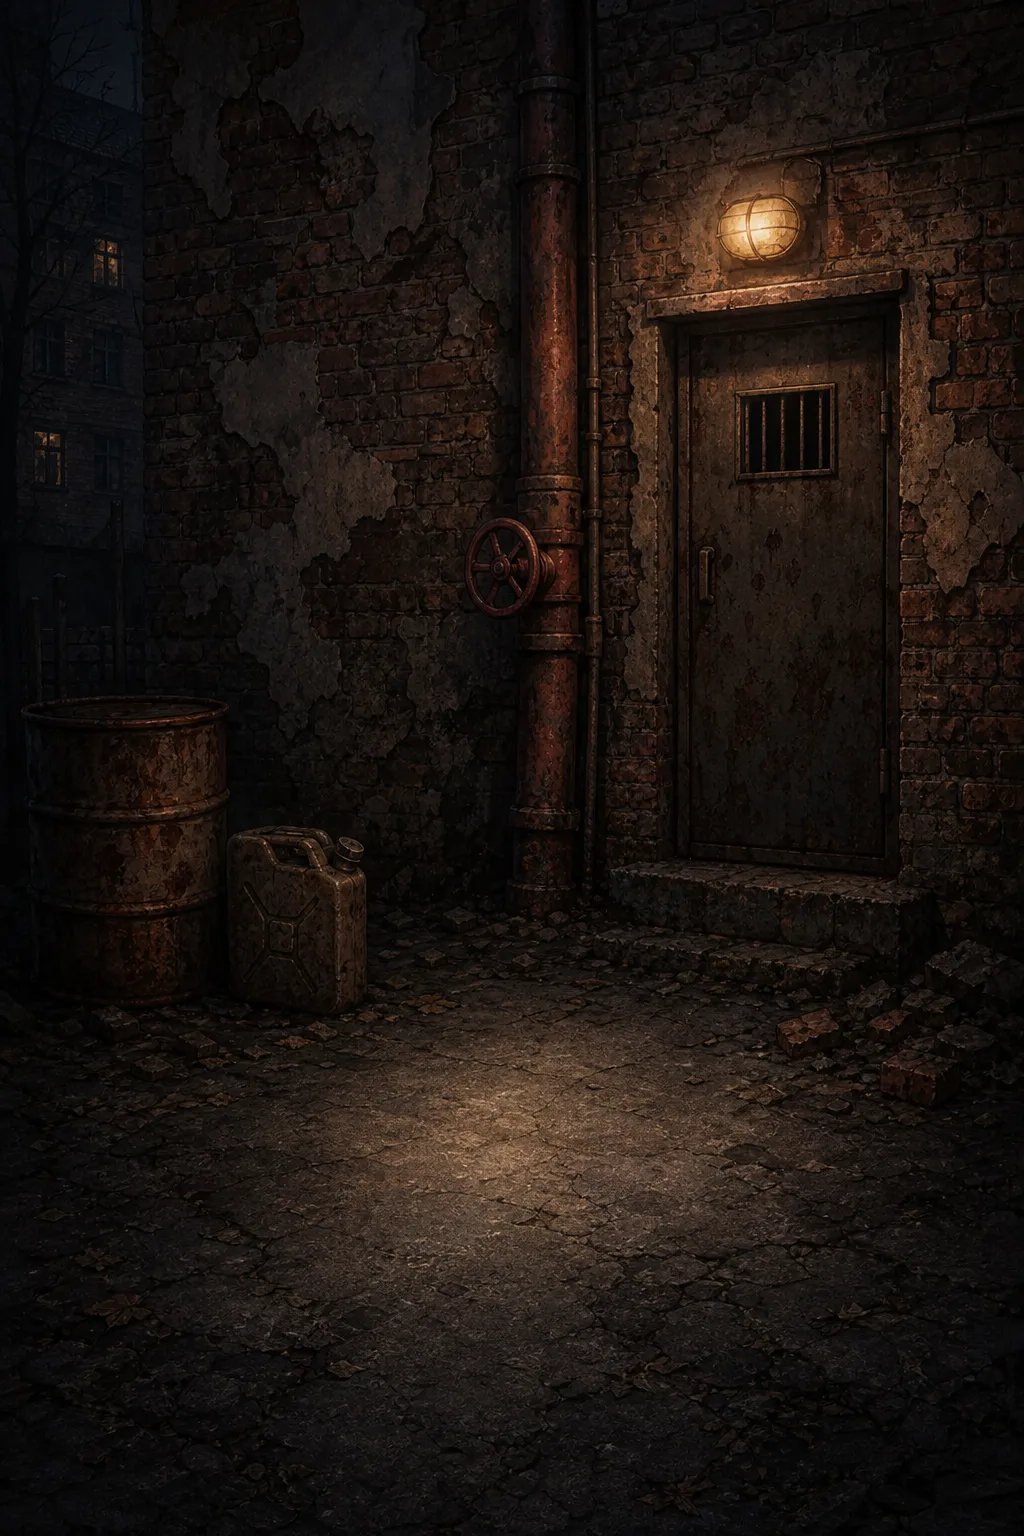
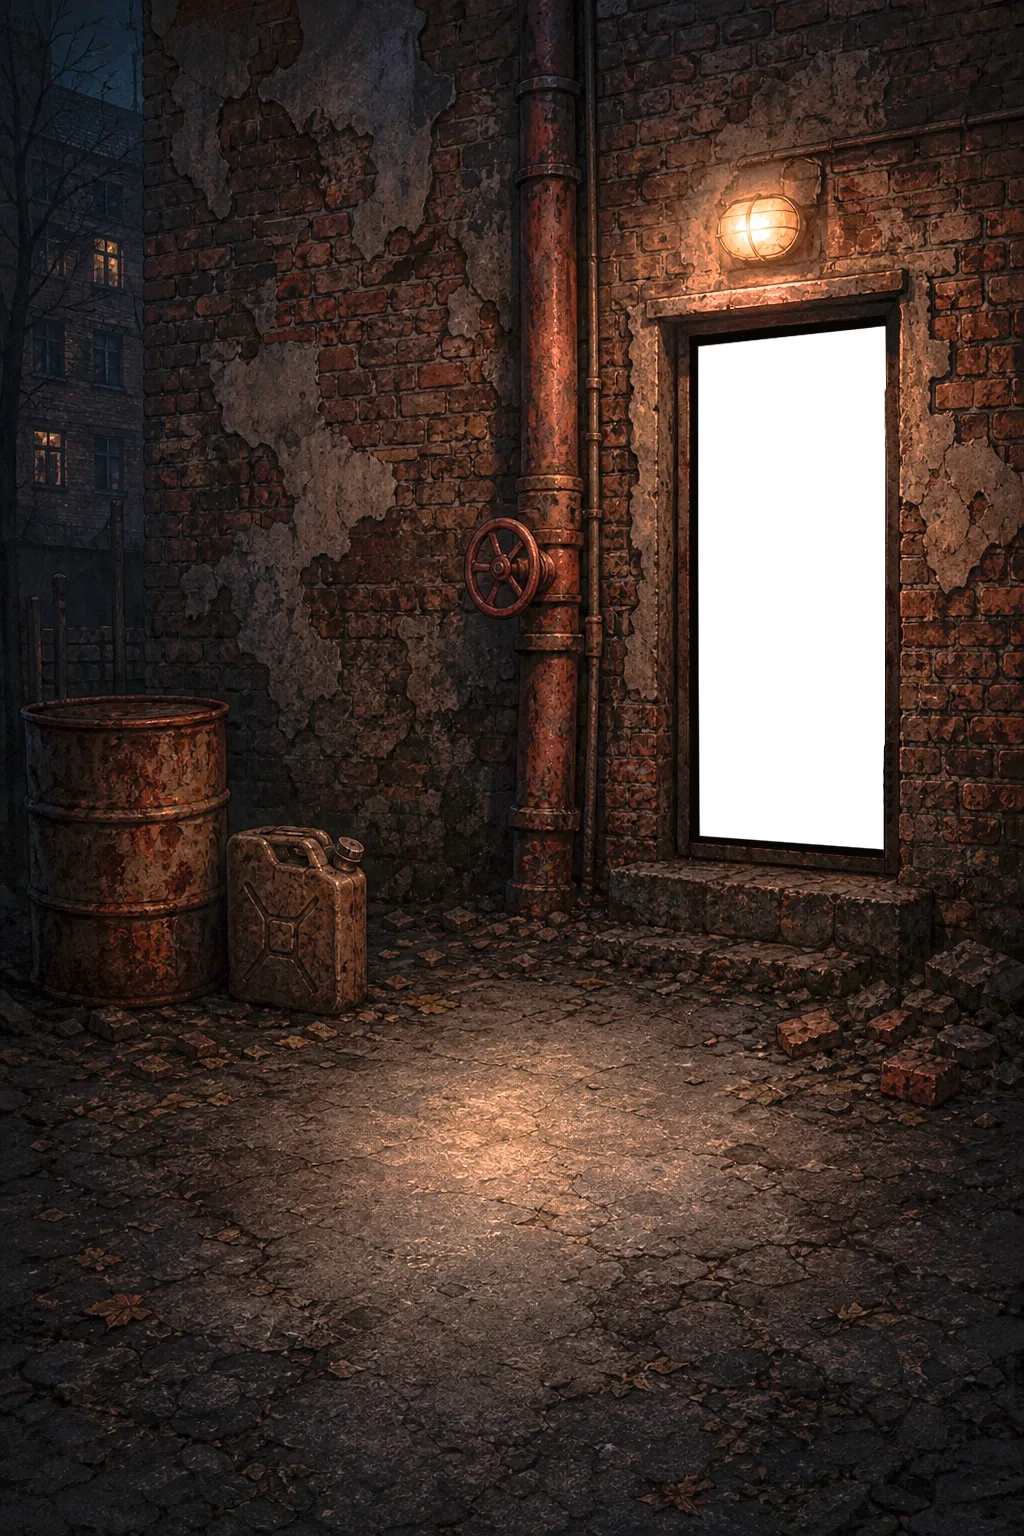
Сумки за флаги: двор художника — дверь гуляет от ветра и скрипит, темнота за дверью, фонарь мерцает; вместо музыки гул ветра, скрип и капли (синтез)
Claude-Session: https://claude.ai/code/session_01XtpZhZabEYUcJEQKQgYpHe

diff --git a/src/client/sound.ts b/src/client/sound.ts
@@ -104,7 +104,7 @@ let musicVol = readVol(VOL_KEY + "_music");
 let sfxVol = readVol(VOL_KEY + "_sfx");
 const MASTER = 0.55;
 /** the music bus level of a track at full volume */
-const trackLevel = (t: MusicTrack) => (t === "battle" ? 0.45 : 0.5) * musicVol;
+const trackLevel = (t: MusicTrack) => (t === "battle" ? 0.45 : t === "alley" ? 0.8 : 0.5) * musicVol;
 export const getMusicVolume = () => musicVol;
 export const getSfxVolume = () => sfxVol;
 export function setMusicVolume(v: number) {
@@ -796,13 +796,135 @@ function battleStep(a: AudioContext, s: number, at: number) {
   if (s === 0) noise(a, at, 1.2, { freq: 5000, type: "highpass", vol: 0.12, out });
 }
 
-export type MusicTrack = "calm" | "battle" | "yard";
+export type MusicTrack = "calm" | "battle" | "yard" | "alley";
 const TRACKS: Record<MusicTrack, { step: number; bars: number; play: (a: AudioContext, s: number, at: number) => void }> = {
   calm: { step: STEP, bars: 8, play: calmStep },
   battle: { step: B_STEP, bars: 8, play: battleStep },
   // nature has no synthesized stand-in: quiet until its file is in
   yard: { step: STEP, bars: 8, play: () => undefined },
+  // the back alley of «Сумки за флаги»: no music — the wind, water dripping somewhere (the door creaks: alleyCreak)
+  alley: { step: STEP, bars: 8, play: (a, _s, at) => alleyStep(a, at) },
 };
+
+/*
+ * The back alley (synthesized, on the music bus — the music switch and volume rule it): the wind is a looped noise
+ * through a band-pass that wanders slowly, with gusts; drops fall now and then, each a short falling «plip» with a
+ * little echo; the door's creak comes from the door's swing (alleyCreak, raids.tsx).
+ */
+let wind: { src: AudioBufferSourceNode; g: GainNode } | null = null;
+let echo: AudioNode | null = null;
+function alleyEcho(a: AudioContext): AudioNode {
+  if (echo) return echo;
+  const d = a.createDelay(1);
+  d.delayTime.value = 0.23;
+  const fb = a.createGain();
+  fb.gain.value = 0.32;
+  const lp = a.createBiquadFilter();
+  lp.type = "lowpass";
+  lp.frequency.value = 2500;
+  d.connect(lp).connect(fb).connect(d);
+  const inp = a.createGain();
+  inp.connect(musicBus!);
+  inp.connect(d);
+  lp.connect(musicBus!);
+  echo = inp;
+  return inp;
+}
+function alleyStep(a: AudioContext, at: number) {
+  if (!wind && musicBus) {
+    const len = a.sampleRate * 4;
+    const buf = a.createBuffer(1, len, a.sampleRate);
+    const d = buf.getChannelData(0);
+    // brown-ish noise: the low roar of the wind (the ends meet, so the loop does not click)
+    let last = 0;
+    for (let i = 0; i < len; i++) { last = (last + 0.02 * (Math.random() * 2 - 1)) / 1.02; d[i] = last * 3.5; }
+    for (let i = 0; i < 2000; i++) { const k = i / 2000; d[len - 1 - i] = d[len - 1 - i] * k + d[i] * (1 - k); }
+    const src = a.createBufferSource();
+    src.buffer = buf;
+    src.loop = true;
+    const bp = a.createBiquadFilter();
+    bp.type = "bandpass";
+    bp.frequency.value = 420;
+    bp.Q.value = 0.7;
+    // the howl wanders: the band slides up and down
+    const lfo = a.createOscillator();
+    lfo.frequency.value = 0.09;
+    const lfoG = a.createGain();
+    lfoG.gain.value = 260;
+    lfo.connect(lfoG).connect(bp.frequency);
+    // gusts: the loudness swells and falls
+    const g = a.createGain();
+    g.gain.value = 0;
+    const gust = a.createOscillator();
+    gust.frequency.value = 0.13;
+    const gustG = a.createGain();
+    gustG.gain.value = 0.35;
+    gust.connect(gustG).connect(g.gain);
+    g.gain.setValueAtTime(0, at);
+    g.gain.linearRampToValueAtTime(0.75, at + 3);
+    src.connect(bp).connect(g).connect(musicBus);
+    src.start(at);
+    lfo.start(at);
+    gust.start(at);
+    src.onended = () => { lfo.stop(); gust.stop(); };
+    wind = { src, g };
+    musicLp?.frequency.setValueAtTime(9000, at);
+  }
+  // a drop: rarely, sometimes two close together
+  if (Math.random() < 0.035) {
+    const out = alleyEcho(a);
+    const f = 900 + Math.random() * 900;
+    tone(a, f, at, 0.07, { type: "sine", vol: 0.09 + Math.random() * 0.06, slide: 0.45, out });
+    tone(a, f * 1.9, at + 0.004, 0.03, { type: "sine", vol: 0.03, slide: 0.6, out });
+    if (Math.random() < 0.3) tone(a, f * 0.85, at + 0.18 + Math.random() * 0.2, 0.06, { type: "sine", vol: 0.06, slide: 0.45, out });
+  }
+}
+function stopWind(at = 0) {
+  if (!wind) return;
+  const w = wind;
+  wind = null;
+  if (ctx) {
+    w.g.gain.cancelScheduledValues(ctx.currentTime);
+    w.g.gain.setTargetAtTime(0, ctx.currentTime, 0.15);
+  }
+  try { w.src.stop(Math.max(at, (ctx?.currentTime ?? 0) + 0.6)); } catch { /* stopped */ }
+  if (ctx) musicLp?.frequency.setValueAtTime(2600, ctx.currentTime + 0.6);
+}
+/**
+ * The door's creak: a rusty hinge — a rough sawtooth whose pitch slides with the swing, shaken by a fast tremble,
+ * through two narrow resonances; `power` 0…1 — how far it swings. Only in the alley, with the music on.
+ */
+export function alleyCreak(power = 0.6, dur = 0.9) {
+  const a = ctx;
+  if (!a || !musicBus || track !== "alley" || !seqTimer || a.state !== "running") return;
+  const at = a.currentTime + 0.02;
+  const o = a.createOscillator();
+  o.type = "sawtooth";
+  const f0 = 170 + Math.random() * 60;
+  o.frequency.setValueAtTime(f0, at);
+  o.frequency.linearRampToValueAtTime(f0 * (1.35 + power * 0.5), at + dur * 0.55);
+  o.frequency.linearRampToValueAtTime(f0 * 1.1, at + dur);
+  // the hinge sticks and slips: a fast tremble of the loudness
+  const trem = a.createOscillator();
+  trem.frequency.setValueAtTime(18 + Math.random() * 10, at);
+  trem.frequency.linearRampToValueAtTime(34, at + dur);
+  const tremG = a.createGain();
+  tremG.gain.value = 0.5;
+  const g = a.createGain();
+  g.gain.setValueAtTime(0.0001, at);
+  g.gain.linearRampToValueAtTime(0.05 + power * 0.06, at + 0.08);
+  g.gain.setValueAtTime(0.05 + power * 0.06, at + dur * 0.7);
+  g.gain.exponentialRampToValueAtTime(0.0001, at + dur);
+  trem.connect(tremG).connect(g.gain);
+  const r1 = a.createBiquadFilter(); r1.type = "bandpass"; r1.frequency.value = 1100; r1.Q.value = 9;
+  const r2 = a.createBiquadFilter(); r2.type = "bandpass"; r2.frequency.value = 2300; r2.Q.value = 12;
+  const mix = a.createGain(); mix.gain.value = 1;
+  o.connect(r1).connect(mix);
+  o.connect(r2).connect(mix);
+  mix.connect(g).connect(alleyEcho(a));
+  o.start(at); trem.start(at);
+  o.stop(at + dur + 0.05); trem.stop(at + dur + 0.05);
+}
 let track: MusicTrack = "calm";
 
 let seqTimer: ReturnType<typeof setInterval> | null = null;
@@ -833,7 +955,8 @@ let fileTrack: MusicTrack | null = null;
 /** the music file of this track, looped; the low-pass of the music bus is opened for it. false: not loaded (yet) */
 function startFile(a: AudioContext, t: MusicTrack): boolean {
   if (fileSrc && fileTrack === t) return true;
-  const f = MUSIC_FILES[t];
+  const f = (MUSIC_FILES as Partial<Record<MusicTrack, { id: SampleId; start: number; end: number; gain: number }>>)[t];
+  if (!f) return false;
   const b = buffers[f.id];
   if (!b || !musicBus) return false;
   stopFile();
@@ -910,6 +1033,7 @@ export function setMusicTrack(t: MusicTrack) {
   switchTimer = setTimeout(() => {
     switchTimer = null;
     stopFile();
+    if (t !== "alley") stopWind();
     track = t;
     step = 0;
     if (!musicBus || !ctx) return;
@@ -923,6 +1047,7 @@ export function setMusicTrack(t: MusicTrack) {
 export function stopMusic() {
   if (seqTimer) clearInterval(seqTimer);
   seqTimer = null;
+  stopWind();
   if (ctx) stopFile(ctx.currentTime + 0.45);
   if (ctx && musicBus) {
     musicBus.gain.cancelScheduledValues(ctx.currentTime);

diff --git a/src/client/screens/raids.tsx b/src/client/screens/raids.tsx
@@ -16,7 +16,7 @@ import { ItemArt } from "../art/items.tsx";
 import { BossRig } from "../art/boss-rig.tsx";
 import { Emblem } from "../art/emblems.tsx";
 import { useFx } from "../fx/attack.tsx";
-import { setMusicTrack, sfx, weaponSfx } from "../sound.ts";
+import { alleyCreak, setMusicTrack, sfx, weaponSfx } from "../sound.ts";
 import { MultPicker, TalentProgress, WeaponTray, type Mult } from "./boss.tsx";
 import { WeaponShopWindow } from "./shop.tsx";
 import { TalentWindow } from "./talents.tsx";
@@ -166,6 +166,69 @@ function YardRewards({ y }: { y: (typeof RAID_YARDS)[number] }) {
  * turned left and right with the arrows or a swipe; under it only the yard's name. Each bag holds a set of tattoos
  * and opens for its yard's flags (the sets are being drawn: no button yet).
  */
+/*
+ * The back alley (the artist's picture, 1024×1536, drawn like `cover`): darkness behind the doorway, the wall with its
+ * hole for the door, the door on its hinges (right edge) — the wind pushes it open now and then, it swings back and
+ * rattles, and creaks as it goes (sound.ts alleyCreak); the lamp over it flickers. The sound of the page is the alley
+ * itself (setMusicTrack("alley")): the wind, the drops — no music.
+ */
+const DOOR = { x: 689, y: 315, w: 204, h: 544 };
+function AlleyScene() {
+  const door = useRef<HTMLImageElement | null>(null);
+  useEffect(() => {
+    setMusicTrack("alley");
+    return () => setMusicTrack("calm");
+  }, []);
+  useEffect(() => {
+    const reduce = typeof matchMedia !== "undefined" && matchMedia("(prefers-reduced-motion: reduce)").matches;
+    let ang = 0, vel = 0, target = 1.5, raf = 0, last = performance.now();
+    let next = last + 1500 + Math.random() * 2500, back = 0;
+    const tick = (now: number) => {
+      const dt = Math.min(0.05, (now - last) / 1000);
+      last = now;
+      if (now > next) {
+        // a gust: the door swings open a little or a lot, then the wind lets go
+        const open = 5 + Math.random() * (Math.random() < 0.3 ? 26 : 12);
+        target = open;
+        back = now + 600 + Math.random() * 900;
+        next = now + 2600 + Math.random() * 4500;
+        alleyCreak(Math.min(1, open / 30), 0.6 + open / 40);
+      }
+      if (back && now > back) {
+        // it falls back towards the frame: a shorter creak
+        back = 0;
+        target = 0.5 + Math.random() * 2;
+        alleyCreak(Math.min(0.7, ang / 40), 0.5 + ang / 60);
+      }
+      // a heavy door on rusty hinges: a soft spring, much friction; a little rattle near the frame
+      const jitter = ang < 4 ? Math.sin(now / 37) * 0.25 : 0;
+      vel += ((target - ang) * 9 - vel * 3.2) * dt;
+      ang = Math.max(0, ang + vel * dt);
+      if (door.current) door.current.style.transform = `rotateY(${(ang + jitter).toFixed(2)}deg)`;
+      raf = requestAnimationFrame(tick);
+    };
+    if (!reduce) raf = requestAnimationFrame(tick);
+    return () => cancelAnimationFrame(raf);
+  }, []);
+  const pc = (v: number, of: number) => `${(v / of) * 100}%`;
+  return (
+    <div className="rb-scene" aria-hidden="true">
+      <div className="rb-art">
+        {/* behind the doorway: the dark of the basement */}
+        <i className="rb-dark" style={{ left: pc(696, 1024), top: pc(324, 1536), width: pc(192, 1024), height: pc(526, 1536) }} />
+        {/* eslint-disable-next-line @next/next/no-img-element */}
+        <img className="rb-bg" src={`${A}/bags-bg.webp`} alt="" draggable={false} />
+        {/* eslint-disable-next-line @next/next/no-img-element */}
+        <img ref={door} className="rb-door" src={`${A}/bags-door.webp`} alt="" draggable={false}
+          style={{ left: pc(DOOR.x, 1024), top: pc(DOOR.y, 1536), width: pc(DOOR.w, 1024), height: pc(DOOR.h, 1536) }} />
+        {/* the lamp over the door: its glow flickers */}
+        <i className="rb-lamp" style={{ left: pc(765, 1024), top: pc(215, 1536) }} />
+        <i className="rb-lamp-wash" />
+      </div>
+    </div>
+  );
+}
+
 export function RaidBagsScreen() {
   const [v, setV] = useState<RaidsView | null>(null);
   useEffect(() => { api.get<RaidsView>("/api/raids").then(setV).catch(() => {}); }, []);
@@ -183,8 +246,7 @@ export function RaidBagsScreen() {
     <div className="fit-page rb-page"
       onTouchStart={(e) => { touch.current = e.touches[0].clientX; }}
       onTouchEnd={(e) => { const x0 = touch.current; touch.current = null; if (x0 == null) return; const dx = e.changedTouches[0].clientX - x0; if (Math.abs(dx) > 40) go(dx < 0 ? 1 : -1); }}>
-      {/* eslint-disable-next-line @next/next/no-img-element */}
-      <img className="rb-bg" src={`${A}/bags-bg.webp`} alt="" draggable={false} />
+      <AlleyScene />
       <div className="title-row rd-title">
         <Link href="/clans/raids" className="back-btn" aria-label="К дворам">‹</Link>
         <b>Сумки за флаги</b>

diff --git a/src/app/screens.css b/src/app/screens.css
@@ -6428,7 +6428,21 @@ html.eco .hs-page::after, html.eco .hs-page::before { animation: none; }
 @media (prefers-reduced-motion: reduce) { .rd-bagbtn { animation: none; } }
 /* the bags' page: the back alley, my flags on the left, the bag on the ground in the middle (raids.tsx RaidBagsScreen) */
 .rb-page { background: #0c0a08; color: #fff; }
-.rb-bg { position: absolute; inset: 0; width: 100%; height: 100%; object-fit: cover; object-position: 50% 70%; user-select: none; }
+/* the alley's picture in its own box (1024×1536), laid like object-fit: cover with its point at 50% 70% */
+.rb-scene { position: absolute; inset: 0; overflow: hidden; container-type: size; }
+.rb-art { position: absolute; width: max(100cqw, 100cqh * 1024 / 1536); height: max(100cqh, 100cqw * 1536 / 1024);
+  left: calc((100cqw - max(100cqw, 100cqh * 1024 / 1536)) / 2); top: calc((100cqh - max(100cqh, 100cqw * 1536 / 1024)) * 0.7); perspective: 1400px; }
+.rb-art > * { position: absolute; }
+.rb-bg { inset: 0; width: 100%; height: 100%; user-select: none; }
+.rb-dark { background: radial-gradient(ellipse at 40% 35%, #1a120c, #070504 70%); }
+.rb-door { transform-origin: 98% 50%; will-change: transform; filter: drop-shadow(-6px 4px 6px rgba(0, 0, 0, 0.55)); user-select: none; }
+.rb-lamp { width: 30%; aspect-ratio: 1; transform: translate(-50%, -50%); border-radius: 50%; pointer-events: none; mix-blend-mode: screen;
+  background: radial-gradient(circle, rgba(255, 214, 140, 0.55), rgba(255, 170, 80, 0.18) 40%, transparent 70%); animation: rb-flicker 4.3s steps(1, end) infinite; }
+.rb-lamp-wash { inset: 0; pointer-events: none; background: rgba(0, 0, 0, 0.3); animation: rb-wash 4.3s steps(1, end) infinite; }
+@keyframes rb-flicker { 0%, 100% { opacity: 1; } 8% { opacity: 0.35; } 10% { opacity: 0.95; } 12% { opacity: 0.2; } 15% { opacity: 1; } 47% { opacity: 0.85; } 49% { opacity: 1; }
+  71% { opacity: 0.25; } 72% { opacity: 0.9; } 74% { opacity: 0.1; } 78% { opacity: 1; } }
+@keyframes rb-wash { 0%, 100% { opacity: 0; } 8% { opacity: 0.6; } 10% { opacity: 0.05; } 12% { opacity: 0.8; } 15% { opacity: 0; } 71% { opacity: 0.7; } 72% { opacity: 0.1; } 74% { opacity: 0.9; } 78% { opacity: 0; } }
+@media (prefers-reduced-motion: reduce) { .rb-lamp, .rb-lamp-wash { animation: none; } .rb-lamp-wash { opacity: 0; } }
 .rb-flags { position: absolute; z-index: 2; left: 12px; top: calc(var(--top) + 56px); margin: 0; padding: 0; list-style: none; display: flex; flex-direction: column; gap: 4px; }
 .rb-flags li { display: flex; align-items: center; gap: 6px; opacity: 0.85; }
 .rb-flags li.on { opacity: 1; }

diff --git a/src/client/asset-manifest.ts b/src/client/asset-manifest.ts
@@ -2493,6 +2493,7 @@ export const ASSET_FILES: string[] = [
  "/assets/raids/b-shop.webp",
  "/assets/raids/bag-all.webp",
  "/assets/raids/bags-bg.webp",
+ "/assets/raids/bags-door.webp",
  "/assets/raids/card.webp",
  "/assets/raids/man1.webp",
  "/assets/raids/man2.webp",
